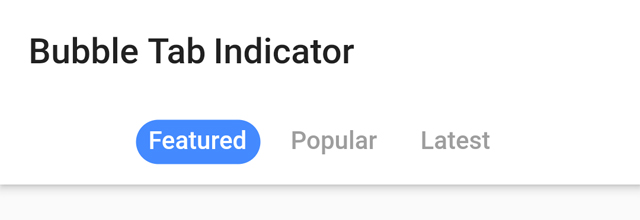
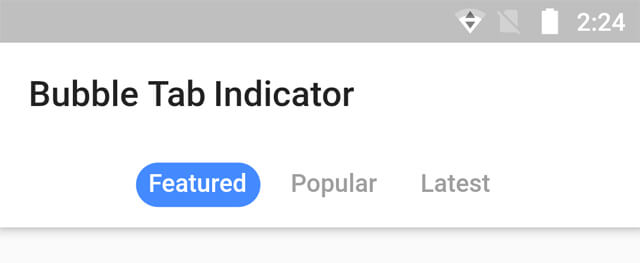
RELEASE: v0.1.2

diff --git a/README.md b/README.md
@@ -11,7 +11,7 @@ A Flutter library to add bubble tab indicator to TabBar.
 Add package from github by adding the following to your pubspec.yaml, pub publication is added later.
 ````
   dependencies:
-    bubble_tab_indicator: "^0.1.1"
+    bubble_tab_indicator: "^0.1.2"
 ````
 Import the library in your file:
 ````

diff --git a/CHANGELOG.md b/CHANGELOG.md
@@ -1,4 +1,7 @@
 
+## 0.1.2
+* Updated Readme and screenshot
+
 ## 0.1.1
 * Updated Readme and some code formatting
 
